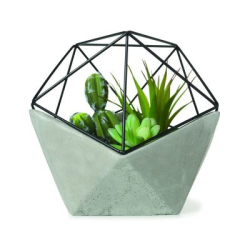
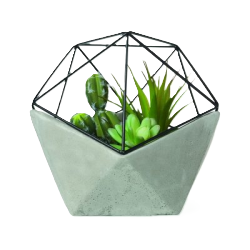
update third section

diff --git a/index.html b/index.html
@@ -265,13 +265,9 @@
       <section class="third-section">
         <div class="find-more">
           <div class="find-more-left">
-            <div class="find-more-left-img">
-              <img
-                class="plant-left"
-                src="./images/Plant_left.png"
-                alt="Plant"
-              />
-            </div>
+            <!-- <div class="find-more-left-img"> -->
+            <img class="plant-left" src="./images/Plant_left.png" alt="Plant" />
+            <!-- </div> -->
             <div class="find-more-left-txt">
               <h3 class="find-more-left-title">Summer cactus & succulents</h3>
               <p class="find-more-left-description">
@@ -289,13 +285,13 @@
             </div>
           </div>
           <div class="find-more-right">
-            <div class="find-more-right-img">
-              <img
-                class="plant-right"
-                src="./images/Plant_right.png"
-                alt="Plant"
-              />
-            </div>
+            <!-- <div class="find-more-right-img"> -->
+            <img
+              class="plant-right"
+              src="./images/Plant_right.png"
+              alt="Plant"
+            />
+            <!-- </div> -->
             <div class="find-more-right-txt">
               <h3 class="find-more-right-title">Styling Trends & much more</h3>
               <p class="find-more-right-description">

diff --git a/styles/styles.css b/styles/styles.css
@@ -537,26 +537,29 @@ h1 {
 .find-more-left {
   width: 100%;
   max-width: 586px;
-  display: flex;
-  justify-content: space-between;
+  background-color: #fbfbfb;
+  position: relative;
+  padding: 37px 30px 46px 0;
 }
 .plant-left {
   width: 100%;
   max-width: 287px;
-  height: 292px;
+  position: absolute;
+  left: 0;
+  top: -52px;
 }
 .plant-right {
   width: 100%;
   max-width: 289px;
-  height: 287px;
-  margin-top: 7px;
+  position: absolute;
+  left: 0;
+  top: -45px;
 }
 .find-more-left-txt,
 .find-more-right-txt {
   background-color: #fbfbfb;
   text-align: right;
   margin-right: 30px;
-  margin-top: 52px;
   display: flex;
   flex-direction: column;
   align-items: end;
@@ -571,7 +574,6 @@ h1 {
   letter-spacing: 0%;
   text-transform: uppercase;
   color: #3d3d3d;
-  margin-top: 37px;
 }
 .find-more-left-description,
 .find-more-right-description {
